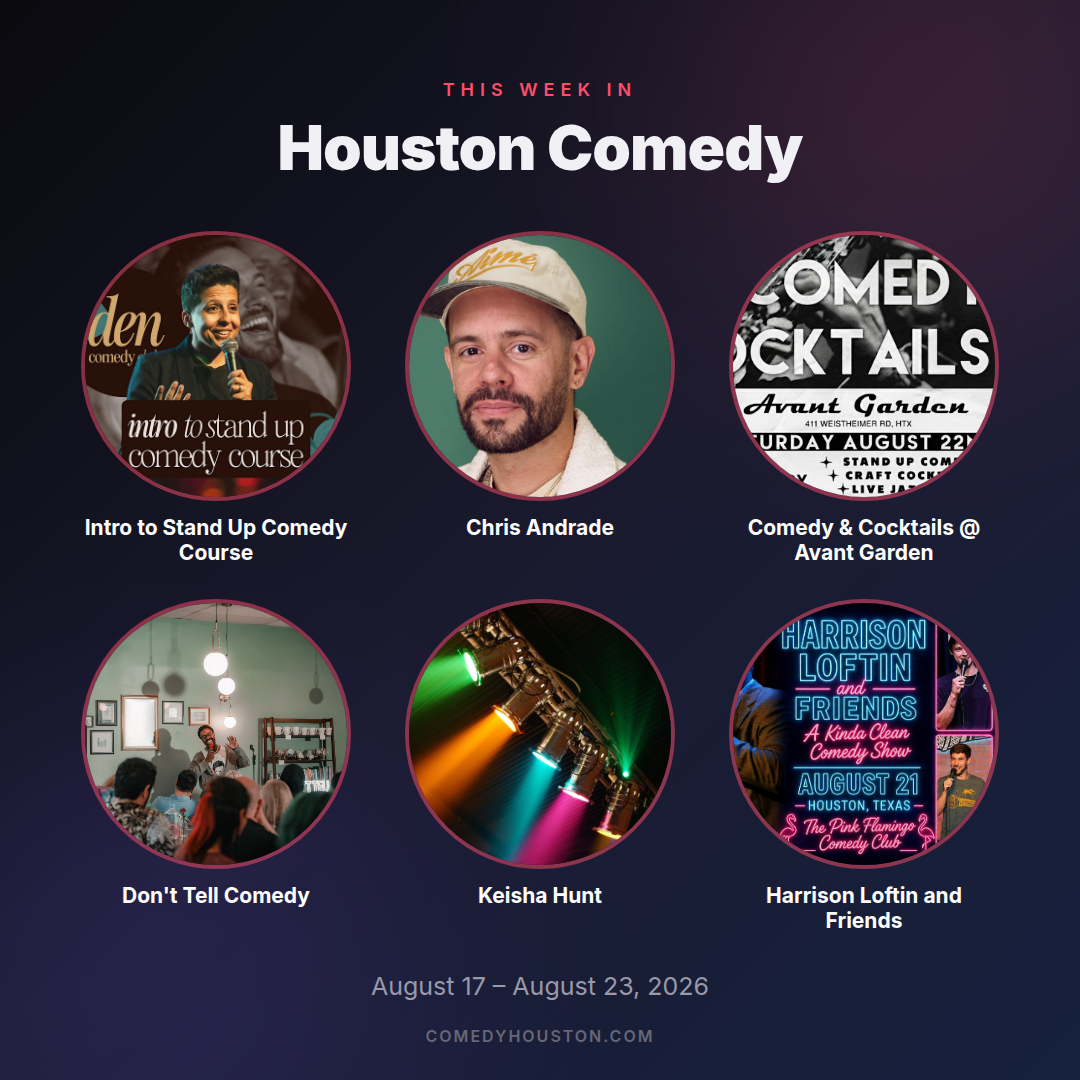
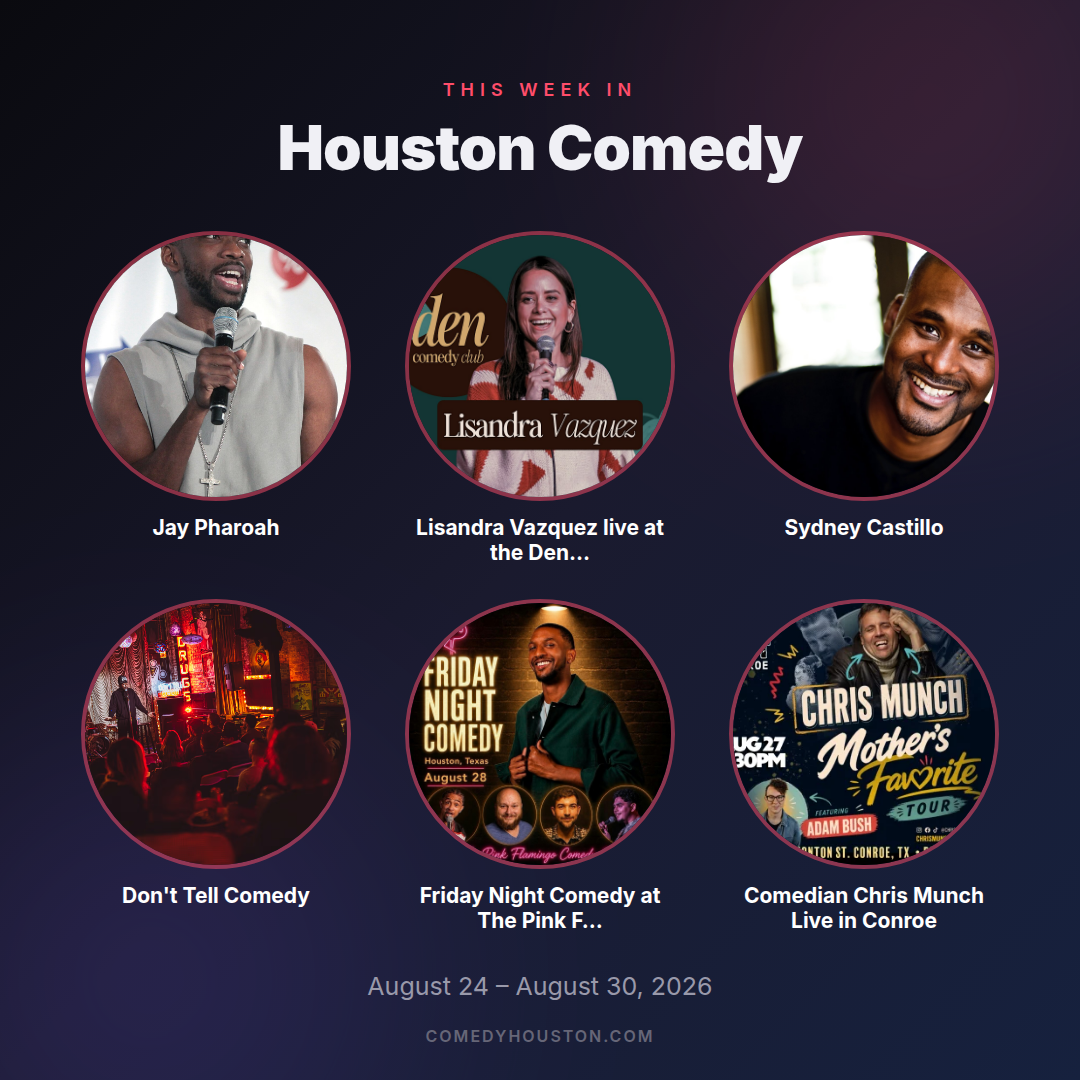
Weekly blog post — August 24, 2026 10:28 AM CT

diff --git a/blog/index.html b/blog/index.html
@@ -3,8 +3,8 @@
 <head>
   <meta charset="UTF-8">
   <meta name="viewport" content="width=device-width, initial-scale=1.0">
-  <title>This Week in Houston Comedy — August 17 – August 23, 2026</title>
-  <meta name="description" content="Your weekly roundup of every comedy show in Houston for August 17 – August 23, 2026. Find shows at Houston Improv, The Riot, The Secret Group, and more.">
+  <title>This Week in Houston Comedy — August 24 – August 30, 2026</title>
+  <meta name="description" content="Your weekly roundup of every comedy show in Houston for August 24 – August 30, 2026. Find shows at Houston Improv, The Riot, The Secret Group, and more.">
   <meta property="og:image" content="weekly-hero.png">
   <meta name="robots" content="noindex">
   <link rel="preconnect" href="https://fonts.googleapis.com">
@@ -340,38 +340,38 @@
       <div class="hero-title">Houston Comedy</div>
       <div class="hero-grid">
         <div class="hero-grid-item">
-          <img src="https://img.evbuc.com/https%3A%2F%2Fcdn.evbuc.com%2Fimages%2F1189878730%2F2991795842957%2F1%2Foriginal.20260729-143508?auto=format%2Ccompress&amp;q=75&amp;sharp=10&amp;s=3e5e5516c5b1cd8eb8547ed07de6ec58" alt="Intro to Stand Up Comedy Course">
-          <div class="hero-grid-name">Intro to Stand Up Comedy Course</div>
+          <img src="https://upload.wikimedia.org/wikipedia/commons/thumb/5/5a/Jay_Pharoah_by_Gage_Skidmore.jpg/960px-Jay_Pharoah_by_Gage_Skidmore.jpg?utm_source=en.wikipedia.org&amp;amp;utm_campaign=index&amp;amp;utm_content=thumbnail" alt="Jay Pharoah">
+          <div class="hero-grid-name">Jay Pharoah</div>
         </div>
         <div class="hero-grid-item">
-          <img src="https://s1.ticketm.net/dam/a/759/a21b16ba-c61b-49e0-ac67-bb114b5e1759_SOURCE" alt="Chris Andrade">
-          <div class="hero-grid-name">Chris Andrade</div>
+          <img src="https://img.evbuc.com/https%3A%2F%2Fcdn.evbuc.com%2Fimages%2F1189098135%2F2991795842957%2F1%2Foriginal.20260717-205824?auto=format%2Ccompress&amp;q=75&amp;sharp=10&amp;s=a8b150d0dbbd30e6aa667b2fcaa075da" alt="Lisandra Vazquez live at the Den…">
+          <div class="hero-grid-name">Lisandra Vazquez live at the Den…</div>
         </div>
         <div class="hero-grid-item">
-          <img src="https://img.evbuc.com/https%3A%2F%2Fcdn.evbuc.com%2Fimages%2F1189644619%2F2976463182411%2F1%2Foriginal.20260726-154406?auto=format%2Ccompress&amp;q=75&amp;sharp=10&amp;s=010ca1568d654395e0d3c098fc802fa8" alt="Comedy &amp; Cocktails @ Avant Garden">
-          <div class="hero-grid-name">Comedy &amp; Cocktails @ Avant Garden</div>
+          <img src="https://s1.ticketm.net/dam/a/035/28a67745-87b5-4756-a998-95cef093a035_SOURCE" alt="Sydney Castillo">
+          <div class="hero-grid-name">Sydney Castillo</div>
         </div>
         <div class="hero-grid-item">
-          <img src="https://dont-tell-comedy.mo.cloudinary.net/private/shop-comicsmilelights_ly7qx6d.webp" alt="Don't Tell Comedy">
+          <img src="https://dont-tell-comedy.mo.cloudinary.net/private/arttheater_opie_QeRoGEy.webp" alt="Don't Tell Comedy">
           <div class="hero-grid-name">Don't Tell Comedy</div>
         </div>
         <div class="hero-grid-item">
-          <img src="https://s1.ticketm.net/dam/c/50a/fa9caa1f-73a1-411e-b507-ec56fa59650a_106061_TABLET_LANDSCAPE_LARGE_16_9.jpg" alt="Keisha Hunt">
-          <div class="hero-grid-name">Keisha Hunt</div>
+          <img src="https://img.evbuc.com/https%3A%2F%2Fcdn.evbuc.com%2Fimages%2F1190849823%2F2996872667695%2F1%2Foriginal.20260811-234405?auto=format%2Ccompress&amp;q=75&amp;sharp=10&amp;s=d57981ecff808e05885b49b8202e8b52" alt="Friday Night Comedy at The Pink F…">
+          <div class="hero-grid-name">Friday Night Comedy at The Pink F…</div>
         </div>
         <div class="hero-grid-item">
-          <img src="https://img.evbuc.com/https%3A%2F%2Fcdn.evbuc.com%2Fimages%2F1190815715%2F2996872667695%2F1%2Foriginal.20260811-170338?auto=format%2Ccompress&amp;q=75&amp;sharp=10&amp;s=14b6d0d9407f77890e335bcd98041500" alt="Harrison Loftin and Friends">
-          <div class="hero-grid-name">Harrison Loftin and Friends</div>
+          <img src="https://www.riotconroe.com/img/events/Guadalaharrys-54-eaf10ba5-large-thumb.png" alt="Comedian Chris Munch Live in Conroe">
+          <div class="hero-grid-name">Comedian Chris Munch Live in Conroe</div>
         </div>
       </div>
 
-      <div class="hero-dates">August 17 – August 23, 2026</div>
+      <div class="hero-dates">August 24 – August 30, 2026</div>
     </div>
 
     <article>
-<h2>This Week in Houston Comedy: August 17 – August 23, 2026</h2>
+<h2>This Week in Houston Comedy: August 24 – August 30, 2026</h2>
 
-<p>Ali Siddiq brings his raw prison-to-stage storytelling to the Improv this week, and if you haven't seen Erin Jackson's razor-sharp crowd work, Sunday at Punch Line is your shot. From local showcases to headliners with national appeal, Houston's comedy scene is serving up some gems. Get the scoop on where to catch the best laughs in town.</p>
+<p>Jay Pharoah, known for his killer impressions on 'Saturday Night Live,' is lighting up the Houston Improv this weekend. And if you haven't caught Courtney Gilmour's award-winning stand-up, she's headlining at The Riot — her sets are a masterclass in storytelling. Whether you're into edgy humor or classic stand-up, this week is packed with top-tier talent.</p>
 
 <h3>Monday</h3>
 
@@ -382,8 +382,8 @@
     Venue: The Riot Comedy Club<br>
     Time: 7:00 PM<br>
     Price: $8<br>
-    <p class="blurb">Start your week with a night of standup comedy and plenty of laughs at The Riot Comedy Club. This event features a hilarious lineup of local talent in an intimate atmosphere.</p>
-    <a class="ticket-link" href="https://www.theriothtx.com/events/the-riot-presents-monday-night-standup-comedy-showcase" target="_blank" rel="sponsored nofollow noopener">Get Tickets</a>
+    <p class="blurb">Kick off your week with some of Houston's finest comedians in an intimate setting. The Riot Comedy Club offers a cozy atmosphere perfect for enjoying new material from local talent.</p>
+    <a class="ticket-link" href="https://www.theriothtx.com/events/the-riot-presents-monday-night-standup-comedy-showcase-1" target="_blank" rel="sponsored nofollow noopener">Get Tickets</a>
   </div>
 </div>
 
@@ -394,81 +394,93 @@
     Venue: The Secret Group<br>
     Time: 8:00 PM<br>
     Price: $8.82<br>
-    <p class="blurb">Catch Mason James, Matt BC, and Dylan Kendrick at The Secret Group. It's a Monday night tradition that promises laughs aplenty.</p>
-    <a class="ticket-link" href="https://www.eventbrite.com/e/monday-night-comedy-tickets-1996542235572" target="_blank" rel="sponsored nofollow noopener">Get Tickets</a>
+    <p class="blurb">Mason James, Matt BC, and Dylan Kendrick bring their comedic chops for a night full of laughs at The Secret Group. This is a perfect spot for those looking to unwind with some stand-up after a long Monday.</p>
+    <a class="ticket-link" href="https://www.eventbrite.com/e/monday-night-comedy-tickets-1998225106083" target="_blank" rel="sponsored nofollow noopener">Get Tickets</a>
   </div>
 </div>
 
 <h3>Tuesday</h3>
 
 <div class="show-card">
-  <img src="https://s1.ticketm.net/dam/c/50a/fa9caa1f-73a1-411e-b507-ec56fa59650a_106061_TABLET_LANDSCAPE_LARGE_16_9.jpg" alt="Keisha Hunt" class="show-img" loading="lazy">
+  <img src="https://www.theriothtx.com/img/shows/HTX-Saturday-Night-Showcases-1-2-e1ae10f9-large-thumb.png" alt="The Riot Presents Tuesday Night Standup Comedy Showcase!" class="show-img" loading="lazy">
   <div class="show-info">
-    <strong>Keisha Hunt</strong><br>
-    Venue: Houston Improv<br>
-    Time: 7:30 PM<br>
-    Price: $25.74<br>
-    <a class="ticket-link" href="https://www.ticketweb.com/event/keisha-hunt-houston-improv-tickets/15003503?REFERRAL_ID=tmfeed" target="_blank" rel="sponsored nofollow noopener">Get Tickets</a>
-  </div>
-</div>
-
-<h3>Thursday</h3>
-
-<div class="show-card">
-  <img src="https://s1.ticketm.net/dam/a/759/a21b16ba-c61b-49e0-ac67-bb114b5e1759_SOURCE" alt="Chris Andrade: M.U.T.A.R (en Español)" class="show-img" loading="lazy">
-  <div class="show-info">
-    <strong>Chris Andrade: M.U.T.A.R (en Español)</strong><br>
-    Venue: Punch Line Houston<br>
-    Time: 7:30 PM<br>
-    Price: $47 – $68<br>
-    <a class="ticket-link" href="https://www.ticketmaster.com/chris-andrade-mutar-en-espanol-houston-texas-08-20-2026/event/3A0064A1227216BD" target="_blank" rel="sponsored nofollow noopener">Get Tickets</a>
-  </div>
-</div>
-
-<h3>Friday</h3>
-
-<div class="show-card">
-  <img src="https://s1.ticketm.net/dam/a/89e/6396cf7b-d938-4e7f-8c94-6da4ccd7689e_SOURCE" alt="Gabriel Rutledge" class="show-img" loading="lazy">
-  <div class="show-info">
-    <strong>Gabriel Rutledge</strong><br>
-    Venue: Punch Line Houston<br>
-    Time: 7:00 PM<br>
-    Price: $34 – $48<br>
-    <a class="ticket-link" href="https://www.ticketmaster.com/gabriel-rutledge-houston-texas-08-21-2026/event/3A006494C3BDDFA0" target="_blank" rel="sponsored nofollow noopener">Get Tickets</a>
-  </div>
-</div>
-
-<div class="show-card">
-  <img src="https://www.theriothtx.com/img/shows/IMG-0430-7d560785-large-thumb.jpg" alt="Joey Avery (Don't Kill Comedy) Headlines The Riot Comedy Club" class="show-img" loading="lazy">
-  <div class="show-info">
-    <strong>Joey Avery (Don't Kill Comedy) Headlines The Riot Comedy Club</strong><br>
+    <strong>The Riot Presents Tuesday Night Standup Comedy Showcase!</strong><br>
     Venue: The Riot Comedy Club<br>
     Time: 7:00 PM<br>
-    Price: $25<br>
-    <p class="blurb">Joey Avery is known for his appearances on <a href="https://www.donttellcomedy.com/shows/joey-avery/">Don't Tell Comedy</a> and his engaging storytelling style. Expect a blend of sharp wit and unexpected narratives that keep you laughing throughout the night.</p>
-    <a class="ticket-link" href="https://www.theriothtx.com/events/joey-avery-don-t-kill-comedy-headlines-the-riot-comedy-club" target="_blank" rel="sponsored nofollow noopener">Get Tickets</a>
+    Price: $8<br>
+    <p class="blurb">Continuing the week with a strong lineup, The Riot Comedy Club delivers another night of top-notch comedy. It's a great midweek break with drinks and laughs guaranteed.</p>
+    <a class="ticket-link" href="https://www.theriothtx.com/events/the-riot-presents-tuesday-night-standup-comedy-showcase-1-1" target="_blank" rel="sponsored nofollow noopener">Get Tickets</a>
+  </div>
+</div>
+
+<h3>Friday Night</h3>
+
+<div class="show-card">
+  <img src="https://s1.ticketm.net/dam/a/1b3/53d2df21-06ac-426c-8edf-ca9ddcc961b3_SOURCE" alt="Jay Pharoah" class="show-img" loading="lazy">
+  <div class="show-info">
+    <strong>Jay Pharoah</strong><br>
+    Venue: Houston Improv<br>
+    Time: 7:30 PM<br>
+    <p class="blurb">Jay Pharoah, famous for his spot-on impressions on <a href="https://en.wikipedia.org/wiki/Jay_Pharoah">Saturday Night Live</a>, brings his dynamic stand-up to Houston. Expect a high-energy performance that blends sharp wit with his trademark impressions, making it a must-see show.</p>
+    <a class="ticket-link" href="https://www.ticketmaster.com/event/Z7r9jZ1A70Uaa" target="_blank" rel="sponsored nofollow noopener">Get Tickets</a>
+  </div>
+</div>
+
+<div class="show-card">
+  <img src="https://www.theriothtx.com/img/shows/IMG-0432-7cbb077f-large-thumb.jpg" alt="Comedian Courtney Gilmour" class="show-img" loading="lazy">
+  <div class="show-info">
+    <strong>Comedian Courtney Gilmour (Don’t Tell Comedy) Headlines The Riot Houston</strong><br>
+    Venue: The Riot Comedy Club<br>
+    Time: 7:00 PM<br>
+    Price: $20<br>
+    <p class="blurb">Courtney Gilmour, winner of the Homegrown Comics Competition at Just For Laughs, headlines at The Riot. Her stand-up is known for its heartfelt storytelling and relatable humor, making the audience feel like they're part of the conversation.</p>
+    <a class="ticket-link" href="https://www.theriothtx.com/events/comedian-courtney-gilmour-don-t-tell-comedy-headlines-the-riot-houston" target="_blank" rel="sponsored nofollow noopener">Get Tickets</a>
+  </div>
+</div>
+
+<h3>Saturday Night</h3>
+
+<div class="show-card">
+  <img src="https://www.theriothtx.com/img/shows/IMG-0432-7cbb077f-large-thumb.jpg" alt="Comedian Courtney Gilmour" class="show-img" loading="lazy">
+  <div class="show-info">
+    <strong>Comedian Courtney Gilmour (Don’t Tell Comedy) Headlines The Riot Houston</strong><br>
+    Venue: The Riot Comedy Club<br>
+    Time: 7:00 PM<br>
+    Price: $20<br>
+    <p class="blurb">Another chance to catch Courtney Gilmour — see Friday's listing for why you don't want to miss this.</p>
+    <a class="ticket-link" href="https://www.theriothtx.com/events/comedian-courtney-gilmour-don-t-tell-comedy-headlines-the-riot-houston-the-riot-houston-1" target="_blank" rel="sponsored nofollow noopener">Get Tickets</a>
+  </div>
+</div>
+
+<div class="show-card">
+  <img src="https://s1.ticketm.net/dam/a/1b3/53d2df21-06ac-426c-8edf-ca9ddcc961b3_SOURCE" alt="Jay Pharoah" class="show-img" loading="lazy">
+  <div class="show-info">
+    <strong>Jay Pharoah</strong><br>
+    Venue: Houston Improv<br>
+    Time: 7:00 PM<br>
+    <p class="blurb">Another chance to catch Jay Pharoah — see Friday's listing for why you don't want to miss this.</p>
+    <a class="ticket-link" href="https://www.ticketmaster.com/event/Z7r9jZ1A70UaF" target="_blank" rel="sponsored nofollow noopener">Get Tickets</a>
   </div>
 </div>
 
 <h3>Sunday</h3>
 
 <div class="show-card">
-  <img src="https://s1.ticketm.net/dam/a/a07/6eb7e092-f129-47c7-ab66-d8f36070da07_SOURCE" alt="Erin Jackson" class="show-img" loading="lazy">
+  <img src="https://s1.ticketm.net/dam/a/1b3/53d2df21-06ac-426c-8edf-ca9ddcc961b3_SOURCE" alt="Jay Pharoah" class="show-img" loading="lazy">
   <div class="show-info">
-    <strong>Erin Jackson</strong><br>
-    Venue: Punch Line Houston<br>
-    Time: 7:00 PM<br>
-    Price: $29 – $44<br>
-    <p class="blurb">Erin Jackson, who has appeared on "Late Night with Seth Meyers" and Comedy Central's "This Week at the Comedy Cellar", is known for her sharp, observational humor. Her live performances are a masterclass in timing and delivery, making every punchline land with precision.</p>
-    <a class="ticket-link" href="https://www.ticketmaster.com/erin-jackson-houston-texas-08-23-2026/event/3A0064C3CE6BDB35" target="_blank" rel="sponsored nofollow noopener">Get Tickets</a>
+    <strong>Jay Pharoah</strong><br>
+    Venue: Houston Improv<br>
+    Time: 7:30 PM<br>
+    <p class="blurb">Another chance to catch Jay Pharoah — see Friday's listing for why you don't want to miss this.</p>
+    <a class="ticket-link" href="https://www.ticketmaster.com/event/Z7r9jZ1A70Uao" target="_blank" rel="sponsored nofollow noopener">Get Tickets</a>
   </div>
 </div>
 
-<p>Whether you're looking for big names or local talent, there's something happening every night. Grab your tickets early for the best seating, especially for the big shows that are sure to sell out!</p>
+<p>With such a stellar lineup this week, make sure to grab your tickets early. Shows featuring big names like Jay Pharoah and Courtney Gilmour are sure to sell out quickly!</p>
     </article>
 
     <div class="meta" style="margin-top: 24px;">
-      Generated on Monday, August 17, 2026
+      Generated on Monday, August 24, 2026
     </div>
 
     <footer class="footer">

diff --git a/blog/weekly-hero.html b/blog/weekly-hero.html
@@ -130,32 +130,32 @@
   <div class="title">Houston Comedy</div>
   <div class="headshot-grid cols-3">
       <div class="grid-item">
-        <img src="https://img.evbuc.com/https%3A%2F%2Fcdn.evbuc.com%2Fimages%2F1189878730%2F2991795842957%2F1%2Foriginal.20260729-143508?auto=format%2Ccompress&amp;q=75&amp;sharp=10&amp;s=3e5e5516c5b1cd8eb8547ed07de6ec58" alt="Intro to Stand Up Comedy Course">
-        <div class="grid-name">Intro to Stand Up Comedy Course</div>
+        <img src="https://upload.wikimedia.org/wikipedia/commons/thumb/5/5a/Jay_Pharoah_by_Gage_Skidmore.jpg/960px-Jay_Pharoah_by_Gage_Skidmore.jpg?utm_source=en.wikipedia.org&amp;amp;utm_campaign=index&amp;amp;utm_content=thumbnail" alt="Jay Pharoah">
+        <div class="grid-name">Jay Pharoah</div>
       </div>
       <div class="grid-item">
-        <img src="https://s1.ticketm.net/dam/a/759/a21b16ba-c61b-49e0-ac67-bb114b5e1759_SOURCE" alt="Chris Andrade">
-        <div class="grid-name">Chris Andrade</div>
+        <img src="https://img.evbuc.com/https%3A%2F%2Fcdn.evbuc.com%2Fimages%2F1189098135%2F2991795842957%2F1%2Foriginal.20260717-205824?auto=format%2Ccompress&amp;q=75&amp;sharp=10&amp;s=a8b150d0dbbd30e6aa667b2fcaa075da" alt="Lisandra Vazquez live at the Den…">
+        <div class="grid-name">Lisandra Vazquez live at the Den…</div>
       </div>
       <div class="grid-item">
-        <img src="https://img.evbuc.com/https%3A%2F%2Fcdn.evbuc.com%2Fimages%2F1189644619%2F2976463182411%2F1%2Foriginal.20260726-154406?auto=format%2Ccompress&amp;q=75&amp;sharp=10&amp;s=010ca1568d654395e0d3c098fc802fa8" alt="Comedy &amp; Cocktails @ Avant Garden">
-        <div class="grid-name">Comedy &amp; Cocktails @ Avant Garden</div>
+        <img src="https://s1.ticketm.net/dam/a/035/28a67745-87b5-4756-a998-95cef093a035_SOURCE" alt="Sydney Castillo">
+        <div class="grid-name">Sydney Castillo</div>
       </div>
       <div class="grid-item">
-        <img src="https://dont-tell-comedy.mo.cloudinary.net/private/shop-comicsmilelights_ly7qx6d.webp" alt="Don't Tell Comedy">
+        <img src="https://dont-tell-comedy.mo.cloudinary.net/private/arttheater_opie_QeRoGEy.webp" alt="Don't Tell Comedy">
         <div class="grid-name">Don't Tell Comedy</div>
       </div>
       <div class="grid-item">
-        <img src="https://s1.ticketm.net/dam/c/50a/fa9caa1f-73a1-411e-b507-ec56fa59650a_106061_TABLET_LANDSCAPE_LARGE_16_9.jpg" alt="Keisha Hunt">
-        <div class="grid-name">Keisha Hunt</div>
+        <img src="https://img.evbuc.com/https%3A%2F%2Fcdn.evbuc.com%2Fimages%2F1190849823%2F2996872667695%2F1%2Foriginal.20260811-234405?auto=format%2Ccompress&amp;q=75&amp;sharp=10&amp;s=d57981ecff808e05885b49b8202e8b52" alt="Friday Night Comedy at The Pink F…">
+        <div class="grid-name">Friday Night Comedy at The Pink F…</div>
       </div>
       <div class="grid-item">
-        <img src="https://img.evbuc.com/https%3A%2F%2Fcdn.evbuc.com%2Fimages%2F1190815715%2F2996872667695%2F1%2Foriginal.20260811-170338?auto=format%2Ccompress&amp;q=75&amp;sharp=10&amp;s=14b6d0d9407f77890e335bcd98041500" alt="Harrison Loftin and Friends">
-        <div class="grid-name">Harrison Loftin and Friends</div>
+        <img src="https://www.riotconroe.com/img/events/Guadalaharrys-54-eaf10ba5-large-thumb.png" alt="Comedian Chris Munch Live in Conroe">
+        <div class="grid-name">Comedian Chris Munch Live in Conroe</div>
       </div>
   </div>
 
-  <div class="week-range">August 17 – August 23, 2026</div>
+  <div class="week-range">August 24 – August 30, 2026</div>
   <div class="brand">COMEDYHOUSTON.COM</div>
 </body>
 </html>
